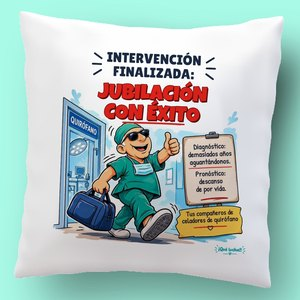
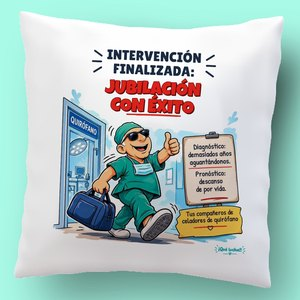
Cojín: títulos más arriba para que no pisen las melenas, botones Cojín/Diseño fuera de la imagen y aviso 'Próximamente' destacado
Claude-Session: https://claude.ai/code/session_014LaVctRrhVae6yt1R8LZ7H

Changed region(s): [[0.3, 0.15, 0.72, 0.42]]

diff --git a/personalizar.html b/personalizar.html
@@ -21,7 +21,7 @@ h2{margin:0;font-size:18px}
 .cols{display:flex;flex-direction:column;gap:18px}
 .prev{position:relative;background:#fff;border-radius:16px;padding:10px;box-shadow:0 2px 10px rgba(17,24,39,.08)}
 .prev canvas{display:block;width:100%;height:auto;border-radius:10px;background:#EEF1F4}
-.vista{position:absolute;top:18px;right:18px;z-index:2;display:flex;background:rgba(255,255,255,.92);border-radius:999px;padding:3px;box-shadow:0 1px 4px rgba(0,0,0,.15)}
+.vista{display:flex;width:max-content;margin:0 0 8px auto;background:#EEF1F4;border-radius:999px;padding:3px}
 .vista button{border:0;background:none;min-height:32px;padding:0 12px;border-radius:999px;font-size:13px;font-weight:700;color:#374151;cursor:pointer}
 .vista button[aria-pressed=true]{background:#13A4AA;color:#fff}
 .prev .cargando{position:absolute;inset:10px;display:flex;align-items:center;justify-content:center;color:#5B6472;font-size:15px}
@@ -48,6 +48,8 @@ input.err,textarea.err{border-color:#C0392B;background:#FFF5F4}
 .formas{display:flex;flex-wrap:wrap;gap:6px}
 .formas button{min-height:38px;padding:0 12px;border-radius:999px;border:1.5px solid #D0D5DD;background:#fff;font-size:14px;font-weight:600;color:#374151;cursor:pointer}
 .formas button[aria-pressed=true]{background:#13A4AA;border-color:#13A4AA;color:#fff}
+.pronto{display:flex;align-items:center;gap:10px;background:linear-gradient(135deg,#13A4AA,#0B7C82);color:#fff;border-radius:12px;padding:12px 14px;font-size:15.5px;font-weight:700;line-height:1.35;box-shadow:0 3px 10px rgba(11,124,130,.25)}
+.pronto .ic{font-size:22px;flex:none}
 .pjs{display:flex;gap:10px;flex-wrap:wrap}
 .pjs button{display:flex;flex-direction:column;align-items:center;gap:6px;padding:6px;border-radius:12px;border:2px solid #E5E8ED;background:#fff;cursor:pointer;font-size:13px;font-weight:600;color:#374151;width:96px}
 .pjs button img{width:80px;height:80px;border-radius:8px;display:block}
@@ -115,7 +117,7 @@ function vDiseno(){
   return cab+'<div class="head"><h1>'+esc(D.nombre)+'</h1><p class="sub">Escribe tus textos y mira cómo queda al momento. La letra se ajusta sola para que quepa.</p>'+
     '<div class="row">'+(D.precio?'<span class="price">'+esc(D.precio)+'</span>':'')+'</div>'+(D.ficha?'<ul class="ficha">'+D.ficha.map(x=>'<li>'+esc(x)+'</li>').join("")+'</ul>':'')+'</div>'+
     '<div class="cols"><div class="prev">'+(D.mockup?'<div class="vista" role="group" aria-label="Vista"><button type="button" data-vista="cojin" aria-pressed="'+(S.vista==="cojin")+'">Cojín</button><button type="button" data-vista="plano" aria-pressed="'+(S.vista==="plano")+'">Diseño</button></div>':'')+'<canvas id="cv" width="1000" height="'+(D.mockup&&S.vista==="cojin"?D.mockup.h:1000)+'" aria-label="Vista previa del cojín"></canvas>'+(S.img?'':'<div class="cargando" id="carg">Preparando la vista previa…</div>')+'</div>'+
-    '<div class="form">'+(D.personajes&&D.personajes.length>1?'<section class="card"><h2>Elige el personaje</h2><div class="pjs" role="group" aria-label="Personaje">'+D.personajes.map(pj=>'<button type="button" data-pj="'+pj.id+'" aria-pressed="'+(S.personaje===pj.id)+'"><img src="'+pj.mini+'" alt="" width="80" height="80">'+esc(pj.nombre)+'</button>').join("")+'</div>'+(D.proximamente?'<p class="small">'+esc(D.proximamente)+'</p>':'')+'</section>':'')+'<section class="card"><h2>Tus textos</h2>'+D.campos.map(campo).join("")+'<button type="button" class="link" id="ejemplo">Volver a los textos de ejemplo</button></section>'+
+    '<div class="form">'+(D.personajes&&D.personajes.length>1?'<section class="card"><h2>Elige el personaje</h2><div class="pjs" role="group" aria-label="Personaje">'+D.personajes.map(pj=>'<button type="button" data-pj="'+pj.id+'" aria-pressed="'+(S.personaje===pj.id)+'"><img src="'+pj.mini+'" alt="" width="80" height="80">'+esc(pj.nombre)+'</button>').join("")+'</div>'+(D.proximamente?'<div class="pronto"><span class="ic" aria-hidden="true">✨</span><span>'+esc(D.proximamente)+'</span></div>':'')+'</section>':'')+'<section class="card"><h2>Tus textos</h2>'+D.campos.map(campo).join("")+'<button type="button" class="link" id="ejemplo">Volver a los textos de ejemplo</button></section>'+
     (S.aviso?'<div class="bad">'+esc(S.aviso)+'</div>':'')+
     '<button type="button" class="btn" id="pedir">Pedir este cojín'+(D.precio?' · '+esc(D.precio):'')+'</button></div></div>';
 }

diff --git a/textos.js b/textos.js
@@ -21,7 +21,7 @@ const DISENOS={
       {id:"jubilada_morena", nombre:"Jubilada morena", base:"disenos/cojin_jubilacion/jubilada_morena.webp", baseFull:"disenos/cojin_jubilacion/jubilada_morena_full.png", mini:"disenos/cojin_jubilacion/mini_jubilada_morena.jpg"},
       {id:"jubilada_rubia", nombre:"Jubilada rubia", base:"disenos/cojin_jubilacion/jubilada_rubia.webp", baseFull:"disenos/cojin_jubilacion/jubilada_rubia_full.png", mini:"disenos/cojin_jubilacion/mini_jubilada_rubia.jpg"}
     ],
-    proximamente:"Este diseño es de quirófano. Próximamente, más personajes y diseños de otros servicios.",
+    proximamente:"Próximamente, más personajes y diseños de otros servicios.",
     logo:{src:"logo/rotulo_grande.png", der:968, abajo:972, w:150},   // logo ¡Qué lucha!! abajo a la derecha (unidades)
     // Maqueta: foto del cojín en blanco y dónde va el diseño encima (matriz de canvas, diseño de 1000 px)
     mockup:{src:"disenos/cojin_jubilacion/mockup.jpg", w:1000, h:1007, m:[0.72373,0.02998,-0.02989,0.72307,150.25,125.91]},
@@ -33,8 +33,8 @@ const DISENOS={
       {id:"cartel", etiqueta:"Texto del cartel amarillo", def:"Tus compañeros de celadores de quirófano", max:60, varias:true}
     ],
     zonas:[
-      {campo:"t1", estilo:"azul",  cx:506, cy:108, w:640, h:138, ang:0,    max:64, min:24, lineas:3, alto:1.0,  pegar:"abajo",  rayos:true},
-      {campo:"t2", estilo:"rojo",  cx:506, cy:294, w:760, h:188, ang:0,    max:124,min:30, lineas:3, alto:0.98, pegar:"arriba", subrayado:true},
+      {campo:"t1", estilo:"azul",  cx:506, cy:99, w:640, h:132, ang:0,    max:64, min:24, lineas:3, alto:1.0,  pegar:"abajo",  rayos:true},
+      {campo:"t2", estilo:"rojo",  cx:506, cy:266, w:760, h:164, ang:0,    max:124,min:30, lineas:3, alto:0.98, pegar:"arriba", subrayado:true},
       {campo:"pizarra", estilo:"mano", cx:785, cy:572, w:200, h:262, ang:-4.5, max:50, min:15, lineas:10, alto:1.04, color:"#1F2433", raya:true},
       {campo:"cartel",  estilo:"mano", cx:792, cy:797, w:258, h:68,  ang:-5,   max:42, min:14, lineas:3,  alto:0.98, color:"#1F2433", corazon:{w:150,s:26}}
     ]
